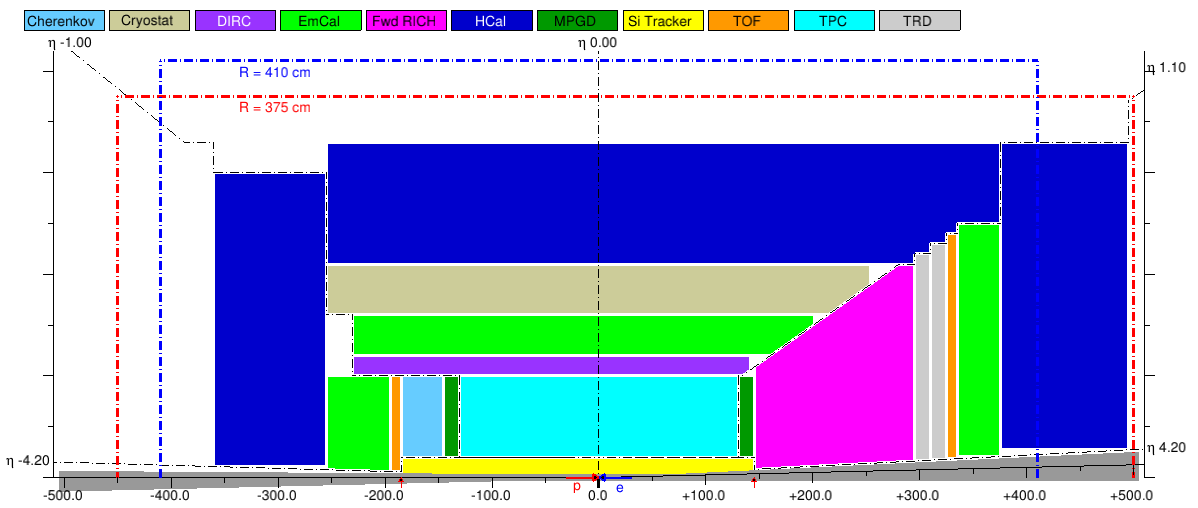
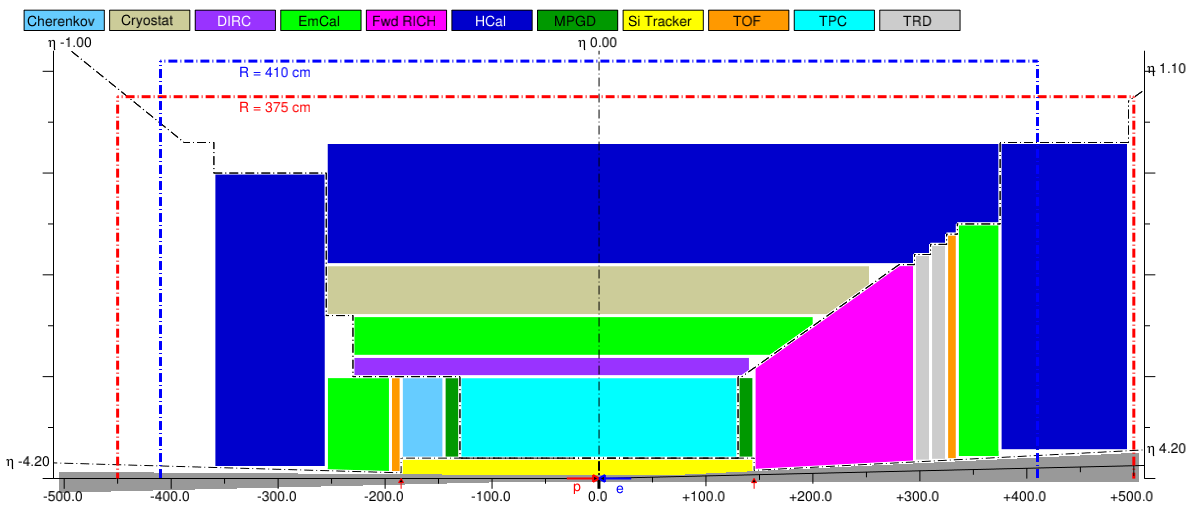
EIC-IR1-XX-v01d.C

diff --git a/scripts/EIC-IR1-XX-v01d.C b/scripts/EIC-IR1-XX-v01d.C
@@ -9,54 +9,54 @@
   eic->acceptance(-4.2, -1.0, 1.1, 4.2);
   eic->SetAzimuthalSegmentation(12);
   eic->DefineVacuumChamber(new vc2020_03_20());
-  eic->DrawIP6boundaries();
-  //eic->UseDetectorHighlighting();
+  //eic->DrawIP6boundaries();
+  eic->UseDetectorHighlighting();
 
   // Vertex tracker;
   {
     auto vtx = eic->vtx(); vtx->offset(0.0 * etm::cm);
 
-    vtx->add("Si Tracker",20 * etm::cm);
+    vtx->add("Si Tracker",20 * etm::cm);//->highlight(1.0);
   }
 
   // Barrel;
   {
     auto mid = eic->mid(); mid->offset( 20 * etm::cm);
       
-    mid->add("TPC",       80 * etm::cm);
-    mid->add("DIRC",      20 * etm::cm)->trim(1.0, 0.3);
-    mid->add("EmCal",     40 * etm::cm);
+    mid->add("TPC",       80 * etm::cm);//->highlight();
+    mid->add("DIRC",      20 * etm::cm)->trim(1.0, 0.3);//->highlight();
+    mid->add("EmCal",     40 * etm::cm);//->highlight();
     mid->add("Cryostat",  50 * etm::cm)->trim(1.0, 0.6);
-    mid->add("HCal",     120 * etm::cm)->trim(0.0, 1.00);
+    mid->add("HCal",     120 * etm::cm)->trim(0.0, 1.00);//->highlight();;
   }
 
   // Hadron-going endcap;
   {
     auto fwd = eic->fwd(); fwd->offset(130 * etm::cm);
 
-    fwd->add("MPGD",      15 * etm::cm)->brick();
+    fwd->add("MPGD",      15 * etm::cm)->brick();//->highlight();
     fwd->marker();
 
-    fwd->add("Fwd RICH", 150 * etm::cm)->trim(1.0, 1.0);
+    fwd->add("Fwd RICH", 150 * etm::cm)->trim(1.0, 1.0);//->highlight();
     for(unsigned nn=0; nn<2; nn++)
-      fwd->add("TRD",     15 * etm::cm)->brick();
+      fwd->add("TRD",     15 * etm::cm)->brick()->highlight();
 
     fwd->add("TOF",       10 * etm::cm)->brick();
-    fwd->add("EmCal",     40 * etm::cm);
-    fwd->add("HCal",     120 * etm::cm);
+    fwd->add("EmCal",     40 * etm::cm);//->highlight();
+    fwd->add("HCal",     120 * etm::cm);//->highlight();
   } 
 
   // Electron-going endcap;
   {
     auto bck = eic->bck(); bck->offset(130 * etm::cm);
 
-    bck->add("MPGD",      15 * etm::cm)->brick();
+    bck->add("MPGD",      15 * etm::cm)->brick();//->highlight();
 
-    bck->add("Cherenkov", 40 * etm::cm);
+    bck->add("Cherenkov", 40 * etm::cm);//->highlight();
     bck->marker();
     bck->add("TOF",       10 * etm::cm)->brick();
-    bck->add("EmCal",     60 * etm::cm)->trim(1.0, 0.0);
-    bck->add("HCal",     105 * etm::cm);
+    bck->add("EmCal",     60 * etm::cm)->trim(1.0, 0.0);//->highlight();
+    bck->add("HCal",     105 * etm::cm);//->highlight();
   }
 
   // Declare eta boundary configuration;
